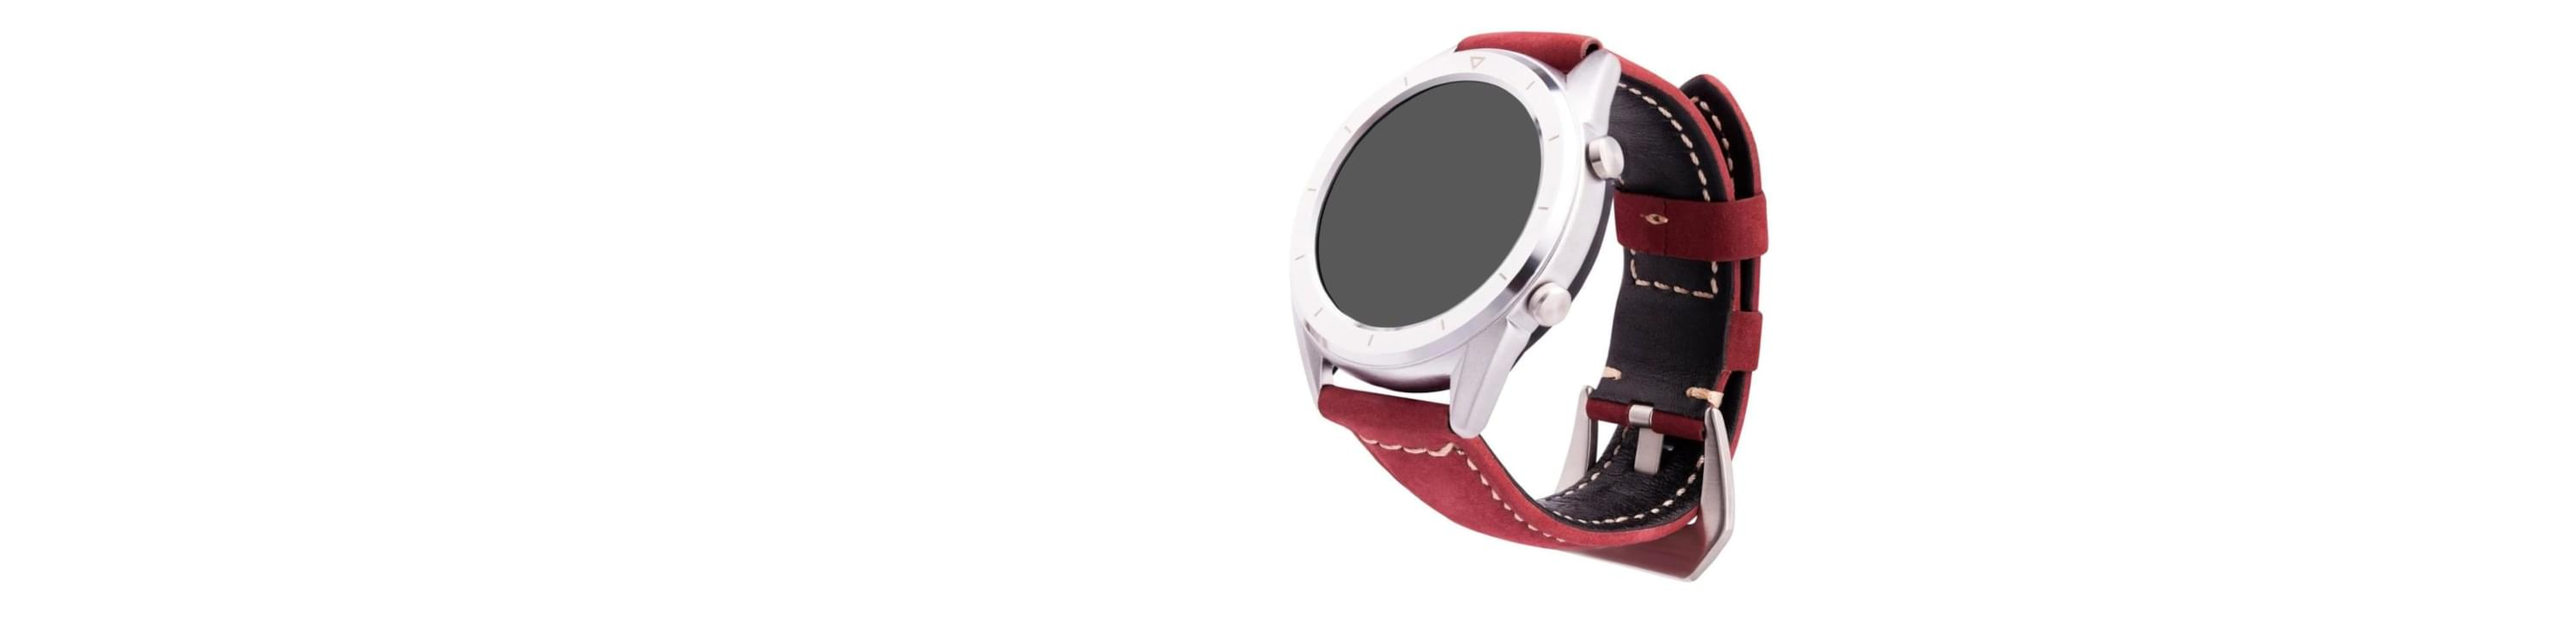
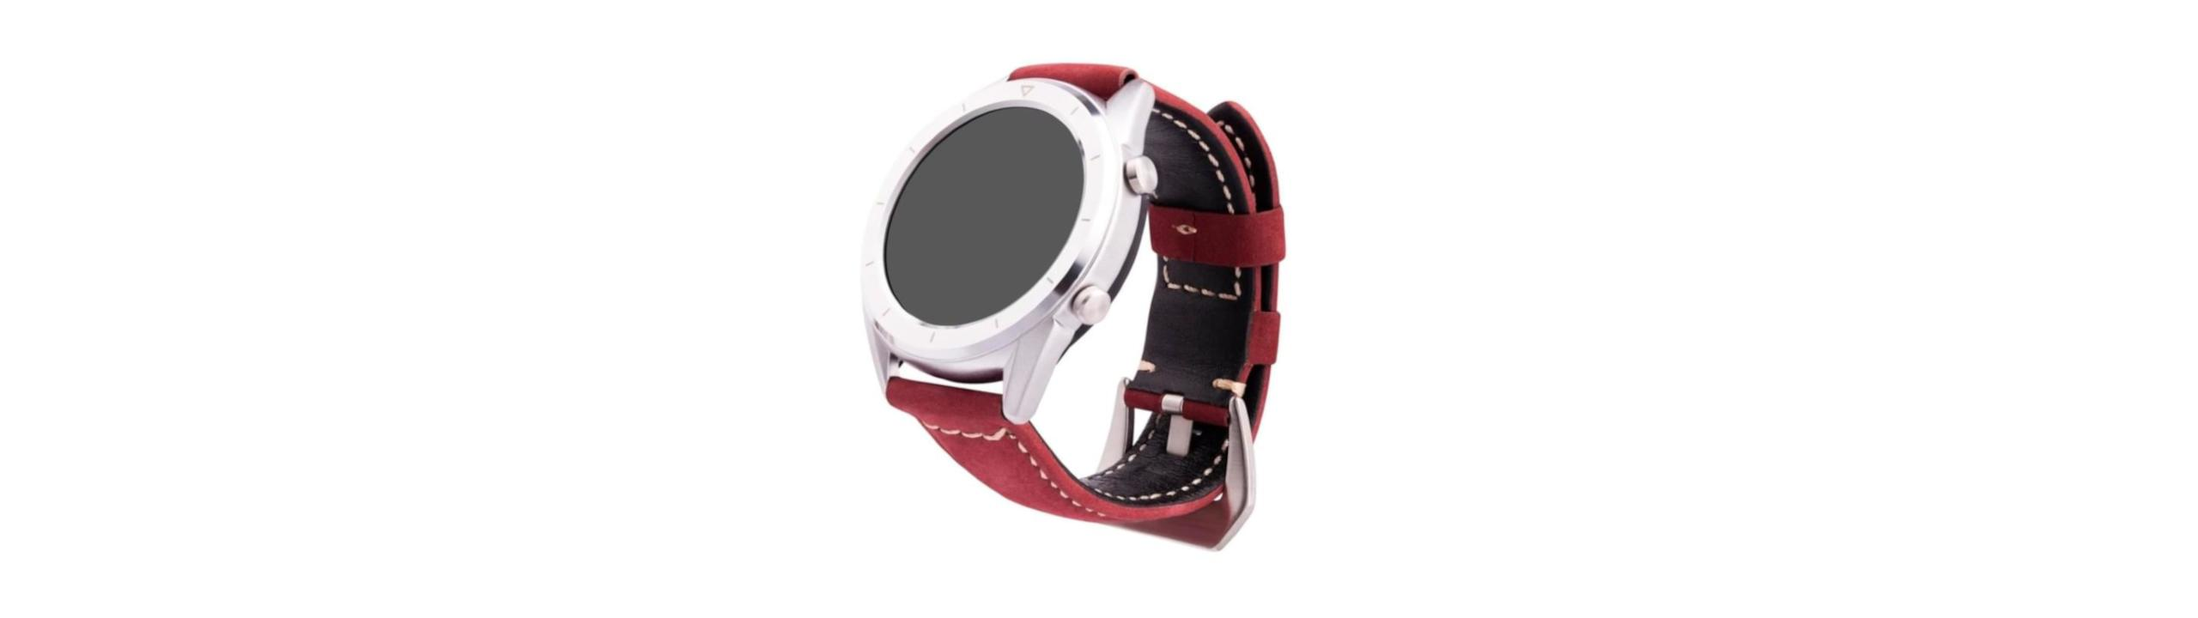
swiper адаптив кнопок, адаптив первого слайдера

Changed region(s): [[0.375, 0.0306, 0.6875, 0.9472]]

diff --git a/assets/css/style.css b/assets/css/style.css
@@ -338,17 +338,17 @@ i {
   position: relative; }
   .carousel__container {
     width: 100%;
-    height: 456px; }
+    height: 340px; }
   .carousel__item_1, .carousel__item_4 {
-    background: url(../img/slider/slider_1.jpg) center/contain no-repeat; }
+    background: url(../img/slider/slider_1.jpg) center/cover no-repeat; }
   .carousel__item_2, .carousel__item_5 {
-    background: url(../img/slider/slider_2.jpg) center/contain no-repeat; }
+    background: url(../img/slider/slider_2.jpg) center/cover no-repeat; }
   .carousel__item_3, .carousel__item_6 {
-    background: url(../img/slider/slider_3.jpg) center/contain no-repeat; }
+    background: url(../img/slider/slider_3.jpg) center/cover no-repeat; }
   .carousel__pagination {
     position: absolute;
     left: 0;
-    bottom: 35px !important;
+    bottom: 10px !important;
     text-align: center; }
   .carousel .swiper-pagination-bullet {
     width: 10px !important;
@@ -360,6 +360,17 @@ i {
     .carousel .swiper-pagination-bullet-active {
       background: #fc1919 !important;
       opacity: 1 !important; }
+  @media (min-width: 992px) {
+    .carousel {
+      height: 456px; }
+      .carousel__item_1, .carousel__item_4 {
+        background: url(../img/slider/slider_1.jpg) center/contain no-repeat; }
+      .carousel__item_2, .carousel__item_5 {
+        background: url(../img/slider/slider_2.jpg) center/contain no-repeat; }
+      .carousel__item_3, .carousel__item_6 {
+        background: url(../img/slider/slider_3.jpg) center/contain no-repeat; }
+      .carousel__pagination {
+        bottom: 15px !important; } }
 
 .basic {
   padding: 30px 0 20px 0;
@@ -967,12 +978,15 @@ i {
           transform: translate(-50%, -50%);
   width: 100%;
   display: grid;
-  grid-template: 68px/minmax(15px, 1fr) 68px minmax(auto, 1170px) 68px minmax(15px, 1fr);
+  grid-template: 36px/minmax(15px, 1fr) 36px minmax(auto, 1170px) 36px minmax(15px, 1fr);
   z-index: 1; }
+  @media (min-width: 768px) {
+    .btns {
+      grid-template: 68px/minmax(15px, 1fr) 68px minmax(auto, 1170px) 68px minmax(15px, 1fr); } }
 
 .swiper-btn {
-  width: 68px;
-  height: 68px;
+  width: 36px;
+  height: 36px;
   border-radius: 50%;
   background: rgba(252, 252, 252, 0.6);
   -webkit-box-shadow: 0 0 10px rgba(231, 231, 231, 0.8);
@@ -991,9 +1005,9 @@ i {
     bottom: 0;
     width: 100%;
     height: 100%;
-    background: url("../img/slider/arrow.svg") center/23px auto no-repeat; }
+    background: url("../img/slider/arrow.svg") center/11.6px auto no-repeat; }
   .swiper-btn:hover::after {
-    background: url("../img/slider/arrow_r.svg") center/23px auto no-repeat; }
+    background: url("../img/slider/arrow_r.svg") center/11.6px auto no-repeat; }
   .swiper-btn-prev {
     grid-column: 2 / 3; }
   .swiper-btn-next {
@@ -1001,5 +1015,13 @@ i {
     .swiper-btn-next::after {
       -webkit-transform: rotate(180deg);
               transform: rotate(180deg); }
+  @media (min-width: 768px) {
+    .swiper-btn {
+      width: 68px;
+      height: 68px; }
+      .swiper-btn::after {
+        background: url("../img/slider/arrow.svg") center/23px auto no-repeat; }
+      .swiper-btn:hover::after {
+        background: url("../img/slider/arrow_r.svg") center/23px auto no-repeat; } }
 
 /*# sourceMappingURL=style.css.map */

diff --git a/assets/scss/main.scss b/assets/scss/main.scss
@@ -360,23 +360,23 @@ i {
 	position: relative;
 	&__container {
 		width: 100%;
-		height: 456px;
+		height: 340px;
 	}
 	&__item {
 		&_1, &_4 {
-			background: url(../img/slider/slider_1.jpg) center / contain no-repeat;
+			background: url(../img/slider/slider_1.jpg) center / cover no-repeat;
 		}
 		&_2, &_5 {
-			background: url(../img/slider/slider_2.jpg) center / contain no-repeat;
+			background: url(../img/slider/slider_2.jpg) center / cover no-repeat;
 		}
 		&_3, &_6 {
-			background: url(../img/slider/slider_3.jpg) center / contain no-repeat;
+			background: url(../img/slider/slider_3.jpg) center / cover no-repeat;
 		}
 	}
 	&__pagination {
 		position: absolute;
 		left: 0;
-		bottom: 35px !important;
+		bottom: 10px !important;
 		text-align: center;
 	}
 	.swiper-pagination-bullet {
@@ -389,6 +389,23 @@ i {
 		&-active {
 			background: rgba(252, 25, 25, 1) !important;
 			opacity: 1 !important;
+		}
+	}
+	@media (min-width: 992px) {
+		height: 456px;
+		&__item {
+			&_1, &_4 {
+				background: url(../img/slider/slider_1.jpg) center / contain no-repeat;
+			}
+			&_2, &_5 {
+				background: url(../img/slider/slider_2.jpg) center / contain no-repeat;
+			}
+			&_3, &_6 {
+				background: url(../img/slider/slider_3.jpg) center / contain no-repeat;
+			}
+		}
+		&__pagination {
+			bottom: 15px !important;
 		}
 	}
 }
@@ -1088,14 +1105,16 @@ i {
 	left: 50%;
 	transform: translate(-50%, -50%);
 	width: 100%;
-	//max-width: 1306px;
 	display: grid;
-	grid-template: 68px / minmax(15px, 1fr) 68px minmax(auto, 1170px) 68px minmax(15px, 1fr);
+	grid-template: 36px / minmax(15px, 1fr) 36px minmax(auto, 1170px) 36px minmax(15px, 1fr);
 	z-index: 1;
+	@media (min-width: 768px) {
+		grid-template: 68px / minmax(15px, 1fr) 68px minmax(auto, 1170px) 68px minmax(15px, 1fr);
+	}
 }
 .swiper-btn {
-	width: 68px;
-	height: 68px;
+	width: 36px;
+	height: 36px;
 	border-radius: 50%;
 	background:rgba(252, 252, 252, .6);
 	box-shadow: 0 0 10px rgba(231, 231, 231, .8);
@@ -1112,11 +1131,11 @@ i {
 		bottom: 0;
 		width: 100%;
 		height: 100%;
-		background: url('../img/slider/arrow.svg') center / 23px auto no-repeat;
+		background: url('../img/slider/arrow.svg') center / 11.6px auto no-repeat;
 	}
 	&:hover {
 		&::after {
-			background:   url('../img/slider/arrow_r.svg') center / 23px auto no-repeat;
+			background:   url('../img/slider/arrow_r.svg') center / 11.6px auto no-repeat;
 		}
 	}
 	&-prev {
@@ -1126,6 +1145,18 @@ i {
 		grid-column: 4 / 5;
 		&::after {
 			transform: rotate(180deg);	
+		}
+	}
+	@media (min-width: 768px) {
+		width: 68px;
+		height: 68px;
+		&::after {
+			background: url('../img/slider/arrow.svg') center / 23px auto no-repeat;
+		}
+		&:hover {
+			&::after {
+				background:   url('../img/slider/arrow_r.svg') center / 23px auto no-repeat;
+			}
 		}
 	}
 }

diff --git a/index.html b/index.html
@@ -305,7 +305,7 @@
             </div>
         </header>-->
         <main class="main">
-            <section class="carousel"><!--
+            <section class="carousel">
                 <div class="carousel__container swiper-container">
                     <div class="carousel__wrapper swiper-wrapper">
                         <div class="carousel__item carousel__item_1 swiper-slide"></div>
@@ -320,7 +320,7 @@
                 <div class="carousel__btns btns">
                     <div class="carousel__btn carousel__btn_p swiper-btn swiper-btn-prev"></div>
                     <div class="carousel__btn carousel__btn_n swiper-btn swiper-btn-next"></div>
-                </div>-->
+                </div>
             </section>
             <section class="basic">
                 <div class="basic__body">
